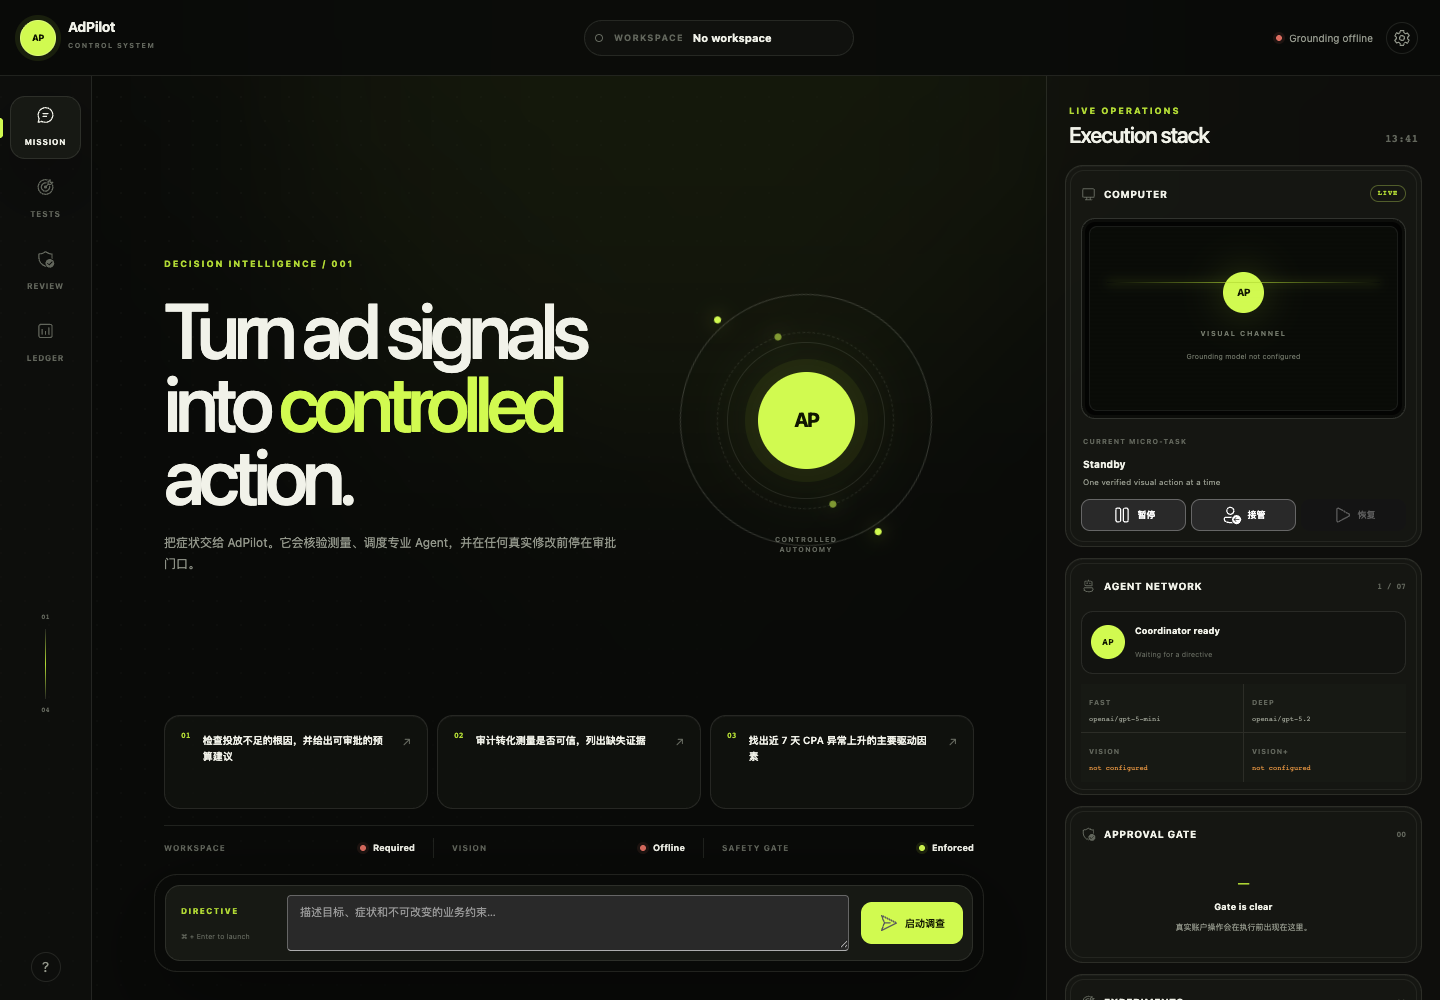
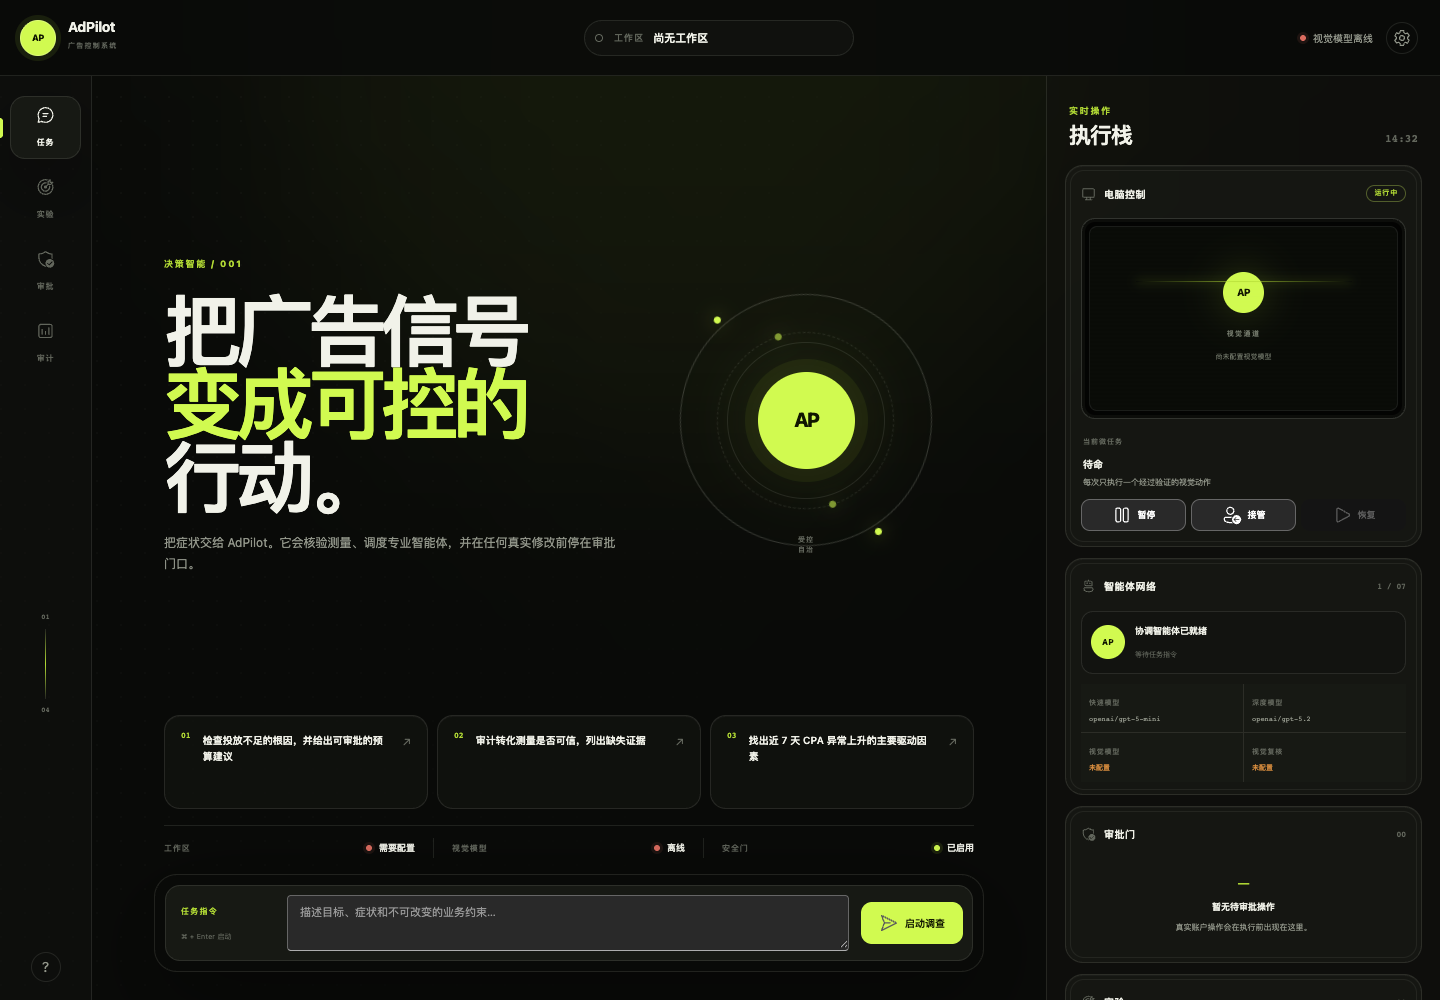
docs: publish native setup and installation guide

diff --git a/apps/desktop/src/SettingsPanel.tsx b/apps/desktop/src/SettingsPanel.tsx
@@ -76,7 +76,7 @@ export function SettingsPanel({ open, data, onClose, onSaved }: { open: boolean;
   }, [authSession?.id, authSession?.status, onSaved]);
 
   const selectedProvider = data?.catalog.providers.find((provider) => provider.id === credentialProvider);
-  const configuredCount = useMemo(() => Object.values(data?.configured ?? {}).filter(Boolean).length, [data]);
+  const configuredCount = useMemo(() => Object.values(data?.providerConfigured ?? {}).filter(Boolean).length, [data]);
   if (!open) return null;
 
   function providerModels(providerId: string): CatalogModel[] {
@@ -176,7 +176,7 @@ export function SettingsPanel({ open, data, onClose, onSaved }: { open: boolean;
             <div className="settings-divider" />
             <div className="subsection-heading"><div><span>{text.providerConnection}</span><h3>{text.credentials}</h3></div><small>{data.catalog.providers.length} {text.providers}</small></div>
             <label className="settings-field"><span>{text.provider}</span><select value={credentialProvider} onChange={(event) => setCredentialProvider(event.target.value)}>{data.catalog.providers.map((provider) => <option key={provider.id} value={provider.id}>{provider.name}</option>)}</select></label>
-            {selectedProvider && <div className="provider-summary"><div><strong>{selectedProvider.name}</strong><span>{selectedProvider.models.length} {text.modelsCount} · {selectedProvider.auth.oauth ? "OAuth · " : ""}{selectedProvider.auth.apiKey ? text.apiKey : "OAuth"}</span></div><i data-ready={Boolean(data.providerConfigured[selectedProvider.id])} /></div>}
+            {selectedProvider && <div className="provider-summary"><div><strong>{selectedProvider.name}</strong><span>{selectedProvider.models.length} {text.modelsCount} · {selectedProvider.auth.apiKey ? text.apiKey : ""}{selectedProvider.auth.apiKey && selectedProvider.auth.oauth ? " · " : ""}{selectedProvider.auth.oauth ? "OAuth" : ""}</span></div><i data-ready={Boolean(data.providerConfigured[selectedProvider.id])} /></div>}
             {selectedProvider?.fields.length ? <div className="settings-fields">{selectedProvider.fields.map((field) => <CredentialField key={field.env} field={field} locale={locale} configured={Boolean(data.configured[field.env])} value={envDraft[field.env] ?? ""} cleared={cleared.has(field.env)} onChange={(value) => { setEnvDraft({ ...envDraft, [field.env]: value }); setCleared((items) => { const next = new Set(items); next.delete(field.env); return next; }); }} onClear={() => setCleared((items) => new Set(items).add(field.env))} />)}</div> : !selectedProvider?.auth.oauth && <div className="settings-note"><i />{text.noStaticModels}</div>}
             {selectedProvider?.auth.oauth && <OAuthConnection session={authSession?.providerId === selectedProvider.id ? authSession : undefined} connected={data.providerCredentials[selectedProvider.id] === "oauth"} input={authInput} text={text} onInput={setAuthInput} onStart={() => void startOAuth()} onRespond={(value) => void respondOAuth(value)} onDisconnect={() => void disconnectOAuth()} />}
           </SettingsSection>}

diff --git a/apps/desktop/src/main.tsx b/apps/desktop/src/main.tsx
@@ -300,7 +300,7 @@ function MissionZero({ onPick, guiReady, clients, locale }: { onPick: (goal: str
 function Readiness({ label, value, ready }: { label: string; value: string; ready: boolean }) { return <div className="readiness"><span>{label}</span><strong><i data-ready={ready} />{value}</strong></div>; }
 function Metric({ label, value, compact = false }: { label: string; value: string; compact?: boolean }) { return <div className={compact ? "compact" : ""}><span>{label}</span><strong>{value}</strong></div>; }
 function Nav({ icon, label, count, active = false, onClick }: { icon: React.ReactNode; label: string; count?: number; active?: boolean; onClick: () => void }) { return <button className={`nav-item ${active ? "active" : ""}`} onClick={onClick}>{icon}<span>{label}</span>{count !== undefined && count > 0 && <b>{count}</b>}</button>; }
-function ModelRow({ label, value, warn = false, empty }: { label: string; value: string; warn?: boolean; empty: string }) { return <div className="model-row"><span>{label}</span><strong className={warn ? "warn" : ""}>{value || empty}</strong></div>; }
+function ModelRow({ label, value, warn = false, empty }: { label: string; value: string; warn?: boolean; empty: string }) { return <div className="model-row"><span>{label}</span><strong className={warn ? "warn" : ""}>{!value || value === "not configured" ? empty : value}</strong></div>; }
 function Empty({ title, body }: { title: string; body: string }) { return <div className="empty"><i>—</i><strong>{title}</strong><span>{body}</span></div>; }
 function formatTime(value: string, locale: AppLocale) { return new Intl.DateTimeFormat(locale, { month: "2-digit", day: "2-digit", hour: "2-digit", minute: "2-digit" }).format(new Date(value)); }
 function roleLabel(role: string, locale: AppLocale) {

diff --git a/README.md b/README.md
@@ -8,7 +8,7 @@ AdPilot 是一个可本地运行、可审批、可审计的原生广告优化 Ag
 
 - 一个面向用户的 AdPilot Agent，按调查树调度 Account Operator、Performance Analyst、Media Buyer、Measurement Reviewer、Creative Strategist 和独立 Risk Reviewer。
 - 客户隔离 Workspace，保存任务、证据、截图、审计链、审批、实验、报告和记忆。
-- Fast / Strong / GUI 三层模型路由。模型只做推理，Skill 定义流程，Tool 才能触碰本地数据或界面。
+- Fast / Strong / GUI 三层模型路由；设置页直接读取 Pi 0.80.10 的完整目录（当前 36 个供应商、1,072 个静态模型条目），同时支持 API 密钥与 Pi 原生 OAuth。模型只做推理，Skill 定义流程，Tool 才能触碰本地数据或界面。
 - 原生 Computer Use：每次严格执行 `截图 -> 单步 grounding -> 策略检查 -> 原生动作 -> 再截图 -> 结果验证`。
 - 真实修改必须经过确定性 guardrail、Risk Reviewer、用户批准和五分钟一次性令牌；令牌绑定账户、Campaign、操作和前后值。
 - Google App Campaign 的规范化、诊断、版本化数值策略、实验账本、doctor 和历史回放内核；保留 410 项上游契约测试。
@@ -40,7 +40,17 @@ adpilot doctor
 adpilot init demo-client --name "Demo Client" --kpi CPA --target 20 --currency USD
 ```
 
-复制 `.env.example` 为 `.env`，或在 shell 中设置同名环境变量。至少配置 Fast/Strong 模型使用的 provider API key；启用 Computer Use 时还需设置 `ADPILOT_GUI_BASE_URL`、`ADPILOT_GUI_API_KEY` 和 `ADPILOT_GUI_MODEL`。
+启动后点右上角齿轮进入“设置”。“模型”页可以选择 Fast/Strong 路由并配置供应商 API 密钥或 OAuth；“电脑控制”页配置 UI-TARS 兼容端点。保存后按提示重启即可生效。密钥不会由设置接口返回明文。
+
+CLI 同样能查看 Pi 供应商并完成 OAuth 登录；CLI 和 DMG 共用各自活动 Workspace 内的安全凭据格式：
+
+```bash
+adpilot providers
+adpilot login openai-codex
+adpilot logout openai-codex
+```
+
+自动化部署仍可复制 `.env.example` 为 `.env` 或设置同名环境变量。设置页保存的值优先于启动时环境变量。
 
 ```bash
 adpilot doctor
@@ -71,7 +81,7 @@ pnpm desktop:dmg
 open release/AdPilot-0.1.0-arm64.dmg
 ```
 
-DMG 会使用 `build/icon.icns` 和标准拖拽到 Applications 的安装窗口。`pnpm icon:mac` 可从 `build/icon.svg` 重建图标。未签名 DMG 适合本机测试；对外分发前仍需配置 Apple Developer ID 签名与 notarization。原生应用会先读取仓库当前目录的 `.env`，打包后则可读取 `~/Library/Application Support/AdPilot/.env`；也支持直接继承系统环境变量。
+DMG 会使用 `build/icon.icns` 和标准拖拽到 Applications 的安装窗口。`pnpm icon:mac` 可从 `build/icon.svg` 重建图标。未签名 DMG 适合本机测试；对外分发前仍需配置 Apple Developer ID 签名与 notarization。原生应用的设置和 OAuth 凭据分别保存在 `~/Library/Application Support/AdPilot/workspace/.adpilot/settings.json` 与 `pi-auth.json`，文件权限为 `0600`；它也会读取 `~/Library/Application Support/AdPilot/.env` 和系统环境变量。
 
 ## macOS 权限
 
@@ -92,4 +102,4 @@ pnpm check
 
 ## English quick start
 
-AdPilot is a local-first, approval-gated advertising optimization agent. Install with Node 22 and pnpm, run `pnpm install --frozen-lockfile && pnpm build`, create a workspace with `adpilot init`, then launch with `adpilot`. Pi is the sole agent runtime; UI-TARS is constrained to one visual grounding action at a time. No live mutation can bypass deterministic policy, independent risk review, user approval, and a one-time bound token.
+AdPilot is a local-first, approval-gated advertising optimization agent. Install with Node 22 and pnpm, run `pnpm install --frozen-lockfile && pnpm build && npm install --global .`, create a workspace with `adpilot init`, then launch with `adpilot`. Settings expose the complete Pi provider catalog, API-key and OAuth connections, model routing, UI language, appearance, and UI-TARS configuration. No live mutation can bypass deterministic policy, independent risk review, user approval, and a one-time bound token.

diff --git a/docs/model-configuration.md b/docs/model-configuration.md
@@ -1,6 +1,8 @@
 # Model configuration
 
-AdPilot uses Pi's provider registry and model objects. Configuration selects three roles; it does not create three competing agent loops.
+AdPilot uses Pi's provider registry and model objects. Open the gear menu in the web console or native app to configure language, appearance, model routing, provider credentials, OAuth, and Computer Use. Configuration selects three roles; it does not create three competing agent loops.
+
+The catalog is generated from the installed Pi runtime, not maintained as a separate AdPilot allowlist. With Pi 0.80.10 it contains 36 providers and 1,072 static model entries: Amazon Bedrock, Ant Ling, Anthropic, Azure OpenAI, Cerebras, Cloudflare AI Gateway, Cloudflare Workers AI, DeepSeek, Fireworks, GitHub Copilot, Google, Google Vertex AI, Groq, Hugging Face, Kimi For Coding, MiniMax, MiniMax CN, Mistral, Moonshot AI, Moonshot AI CN, NVIDIA, OpenAI, OpenAI Codex, OpenCode Zen, OpenCode Zen Go, OpenRouter, Radius, Together, Vercel AI Gateway, xAI, Xiaomi and its three token-plan regions, Z.AI, and Z.AI Coding CN. Radius has a dynamic catalog that is fetched after authentication.
 
 ## Fast and Strong
 
@@ -12,7 +14,17 @@ ADPILOT_STRONG_MODEL=gpt-5.2
 OPENAI_API_KEY=...
 ```
 
-The provider name must exist in the Pi model registry and its normal credential environment variable must be present. Fast handles routine planning, extraction and reports. Strong is selected for conflicts, low confidence, complex causal analysis, risk review escalation and the third visual grounding attempt.
+The provider and model can be selected directly in Settings. Fast handles routine planning, extraction and reports. Strong is selected for conflicts, low confidence, complex causal analysis, risk review escalation and the third visual grounding attempt.
+
+API-key providers expose only the fields they actually require, including the additional account, deployment, region, or project fields used by Bedrock, Azure OpenAI, Cloudflare, and Google Vertex. OAuth-capable providers show a native connection flow in the GUI. The same flow is available from the CLI:
+
+```bash
+adpilot providers
+adpilot login openai-codex
+adpilot logout openai-codex
+```
+
+Settings are stored in `<workspace>/.adpilot/settings.json`; Pi OAuth credentials are stored separately in `<workspace>/.adpilot/pi-auth.json`. Both are private `0600` files. The HTTP settings response contains only configured flags, credential types, and non-secret values.
 
 ## GUI grounding and verification
 
@@ -35,4 +47,4 @@ ADPILOT_PORT=4317
 ADPILOT_NO_OPEN=1
 ```
 
-If `ADPILOT_APPROVAL_SECRET` is absent, AdPilot generates a private local secret. `.env` is loaded by the Node 22 CLI. `adpilot doctor` reports selected model names and whether GUI configuration is complete without printing credentials.
+If `ADPILOT_APPROVAL_SECRET` is absent, AdPilot generates a private local secret. `.env` is loaded by the Node 22 CLI. Values saved through Settings override matching model environment variables on the next launch. `adpilot doctor` reports selected model names and whether GUI configuration is complete without printing credentials.

diff --git a/docs/test-report.md b/docs/test-report.md
@@ -7,8 +7,8 @@ Run date: 2026-07-21. Environment: macOS arm64, Node 24.13.1 (product minimum No
 Command: `pnpm typecheck && pnpm test`
 
 - TypeScript strict typecheck: passed.
-- Vitest: 14 files, 33 tests, all passed.
-- Coverage includes action schema/policy, visual retries/timeouts/cancel, workspace isolation, audit redaction/hash chain, approval binding/expiry/caps, experiments, model routing, Skills, Pi runtime tool calls, specialist isolation, main-Agent approval creation, server token handling and local visual execution.
+- Vitest: 15 files, 36 tests, all passed.
+- Coverage includes action schema/policy, visual retries/timeouts/cancel, workspace isolation, audit redaction/hash chain, approval binding/expiry/caps, experiments, model routing, private settings and OAuth persistence, Skills, Pi runtime tool calls, specialist isolation, main-Agent approval creation, server token handling and local visual execution.
 
 ## Advertising-core suite
 
@@ -31,10 +31,12 @@ Smoke checks:
 
 - `adpilot init` created a private client Workspace and all four YAML control files.
 - `adpilot doctor` read the installed Workspace and model routing state.
+- A clean-prefix global npm install produced a working `adpilot` executable; `adpilot providers` returned all 36 Pi providers.
 - `adpilot serve` launched from `/tmp`, proving the compiled CLI resolves its sibling UI without relying on repository CWD.
 - `/api/health`, `/api/about`, `/api/state` and `/` returned successfully.
 - `node scripts/verify-upstreams.mjs` matched both reviewed git pins.
 - A real headless Chrome session loaded the production UI and captured `docs/screenshots/adpilot-console.png`.
+- Bilingual settings smoke tests passed: Chinese and English shells contained only their selected interface language, all 36 Pi providers were selectable, OAuth controls rendered for OAuth providers, settings survived a process restart, and the 1440×1000 viewport had no horizontal overflow.
 - Responsive UI checks passed at 1440×1000 and 390×844 with no horizontal overflow; the mobile command surface remains reachable above the fixed navigation.
 - The Electron development shell started the same local API on a random loopback port with sandboxing, context isolation and navigation restrictions enabled.
 - `pnpm desktop:dir` produced a runnable arm64 `AdPilot.app`; its packaged API, HTML, JavaScript and CSS assets all returned successfully.

diff --git a/docs/security.md b/docs/security.md
@@ -25,7 +25,7 @@ The runtime takes a fresh screenshot before every attempt. It stops after three 
 
 ## Local data and secrets
 
-- API keys are environment variables. `.env*` is ignored except `.env.example`.
+- API keys can come from environment variables or the local Settings store. Settings and Pi OAuth credentials are written under the active Workspace with `0600` permissions; the settings API returns configuration flags but never secret values. `.env*` is ignored except `.env.example`.
 - The approval secret is generated locally under `workspace/.adpilot/approval-secret` with private permissions when not explicitly configured.
 - Audit values redact credential-like keys, bearer tokens and six-digit verification codes.
 - Workspace path traversal and cross-client access are rejected.

diff --git a/docs/architecture.md b/docs/architecture.md
@@ -57,4 +57,4 @@ Each client lives under `workspace/clients/<client-id>/`. Profile, KPI, accounts
 - Strong: ambiguity, conflicts, failed visual retries and risk-sensitive reasoning.
 - GUI: UI-TARS-compatible visual grounding only.
 
-Provider/model names are environment configuration. Routing never changes Tool permissions.
+Provider/model names come from the persisted native Settings store or environment configuration. The catalog is read directly from Pi, and routing never changes Tool permissions.
